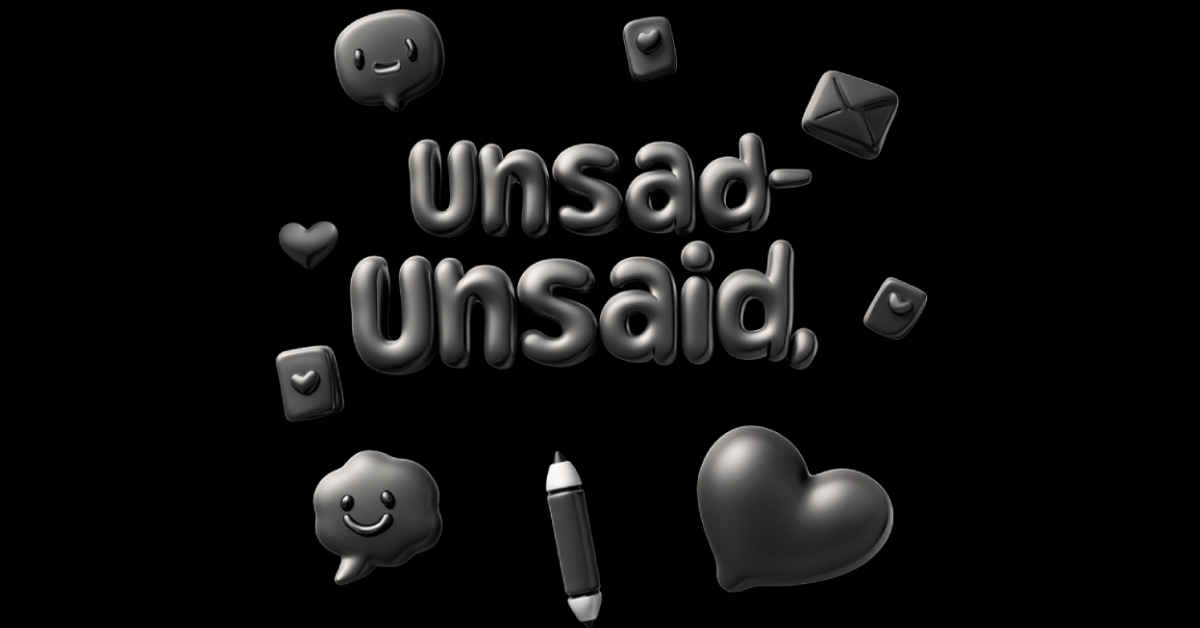
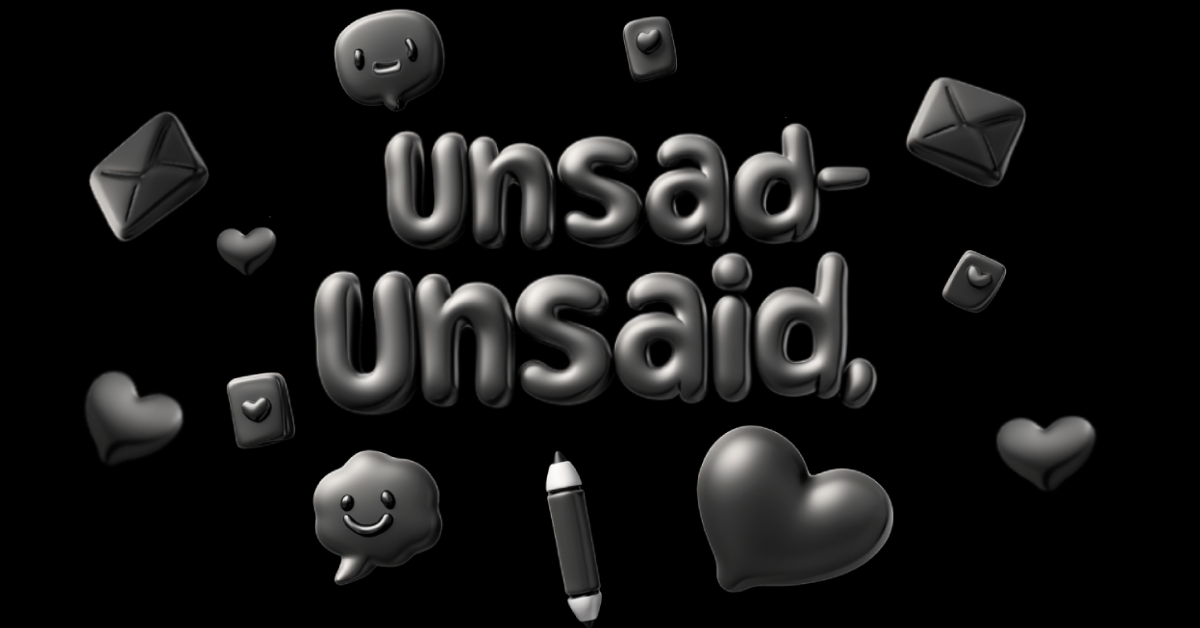
meta img update + gtm tag

diff --git a/index.html b/index.html
@@ -1,6 +1,14 @@
 <!DOCTYPE html>
 <html lang="ko">
 <head>
+    <!-- Google Tag Manager -->
+    <script>(function(w,d,s,l,i){w[l]=w[l]||[];w[l].push({'gtm.start':
+    new Date().getTime(),event:'gtm.js'});var f=d.getElementsByTagName(s)[0],
+    j=d.createElement(s),dl=l!='dataLayer'?'&l='+l:'';j.async=true;j.src=
+    'https://www.googletagmanager.com/gtm.js?id='+i+dl;f.parentNode.insertBefore(j,f);
+    })(window,document,'script','dataLayer','GTM-MZSRDPWD');</script>
+    <!-- End Google Tag Manager -->
+
     <meta charset="UTF-8">
     <meta name="viewport" content="width=device-width, initial-scale=1.0">
     <title>unsad-unsaid</title>
@@ -30,6 +38,11 @@
     <link rel="stylesheet" href="styles.css">
 </head>
 <body>
+    <!-- Google Tag Manager (noscript) -->
+    <noscript><iframe src="https://www.googletagmanager.com/ns.html?id=GTM-MZSRDPWD"
+    height="0" width="0" style="display:none;visibility:hidden"></iframe></noscript>
+    <!-- End Google Tag Manager (noscript) -->
+     
     <div class="chat-container">
         <div class="chat-box" id="chat-box">
             <!-- Chat messages will appear here -->
